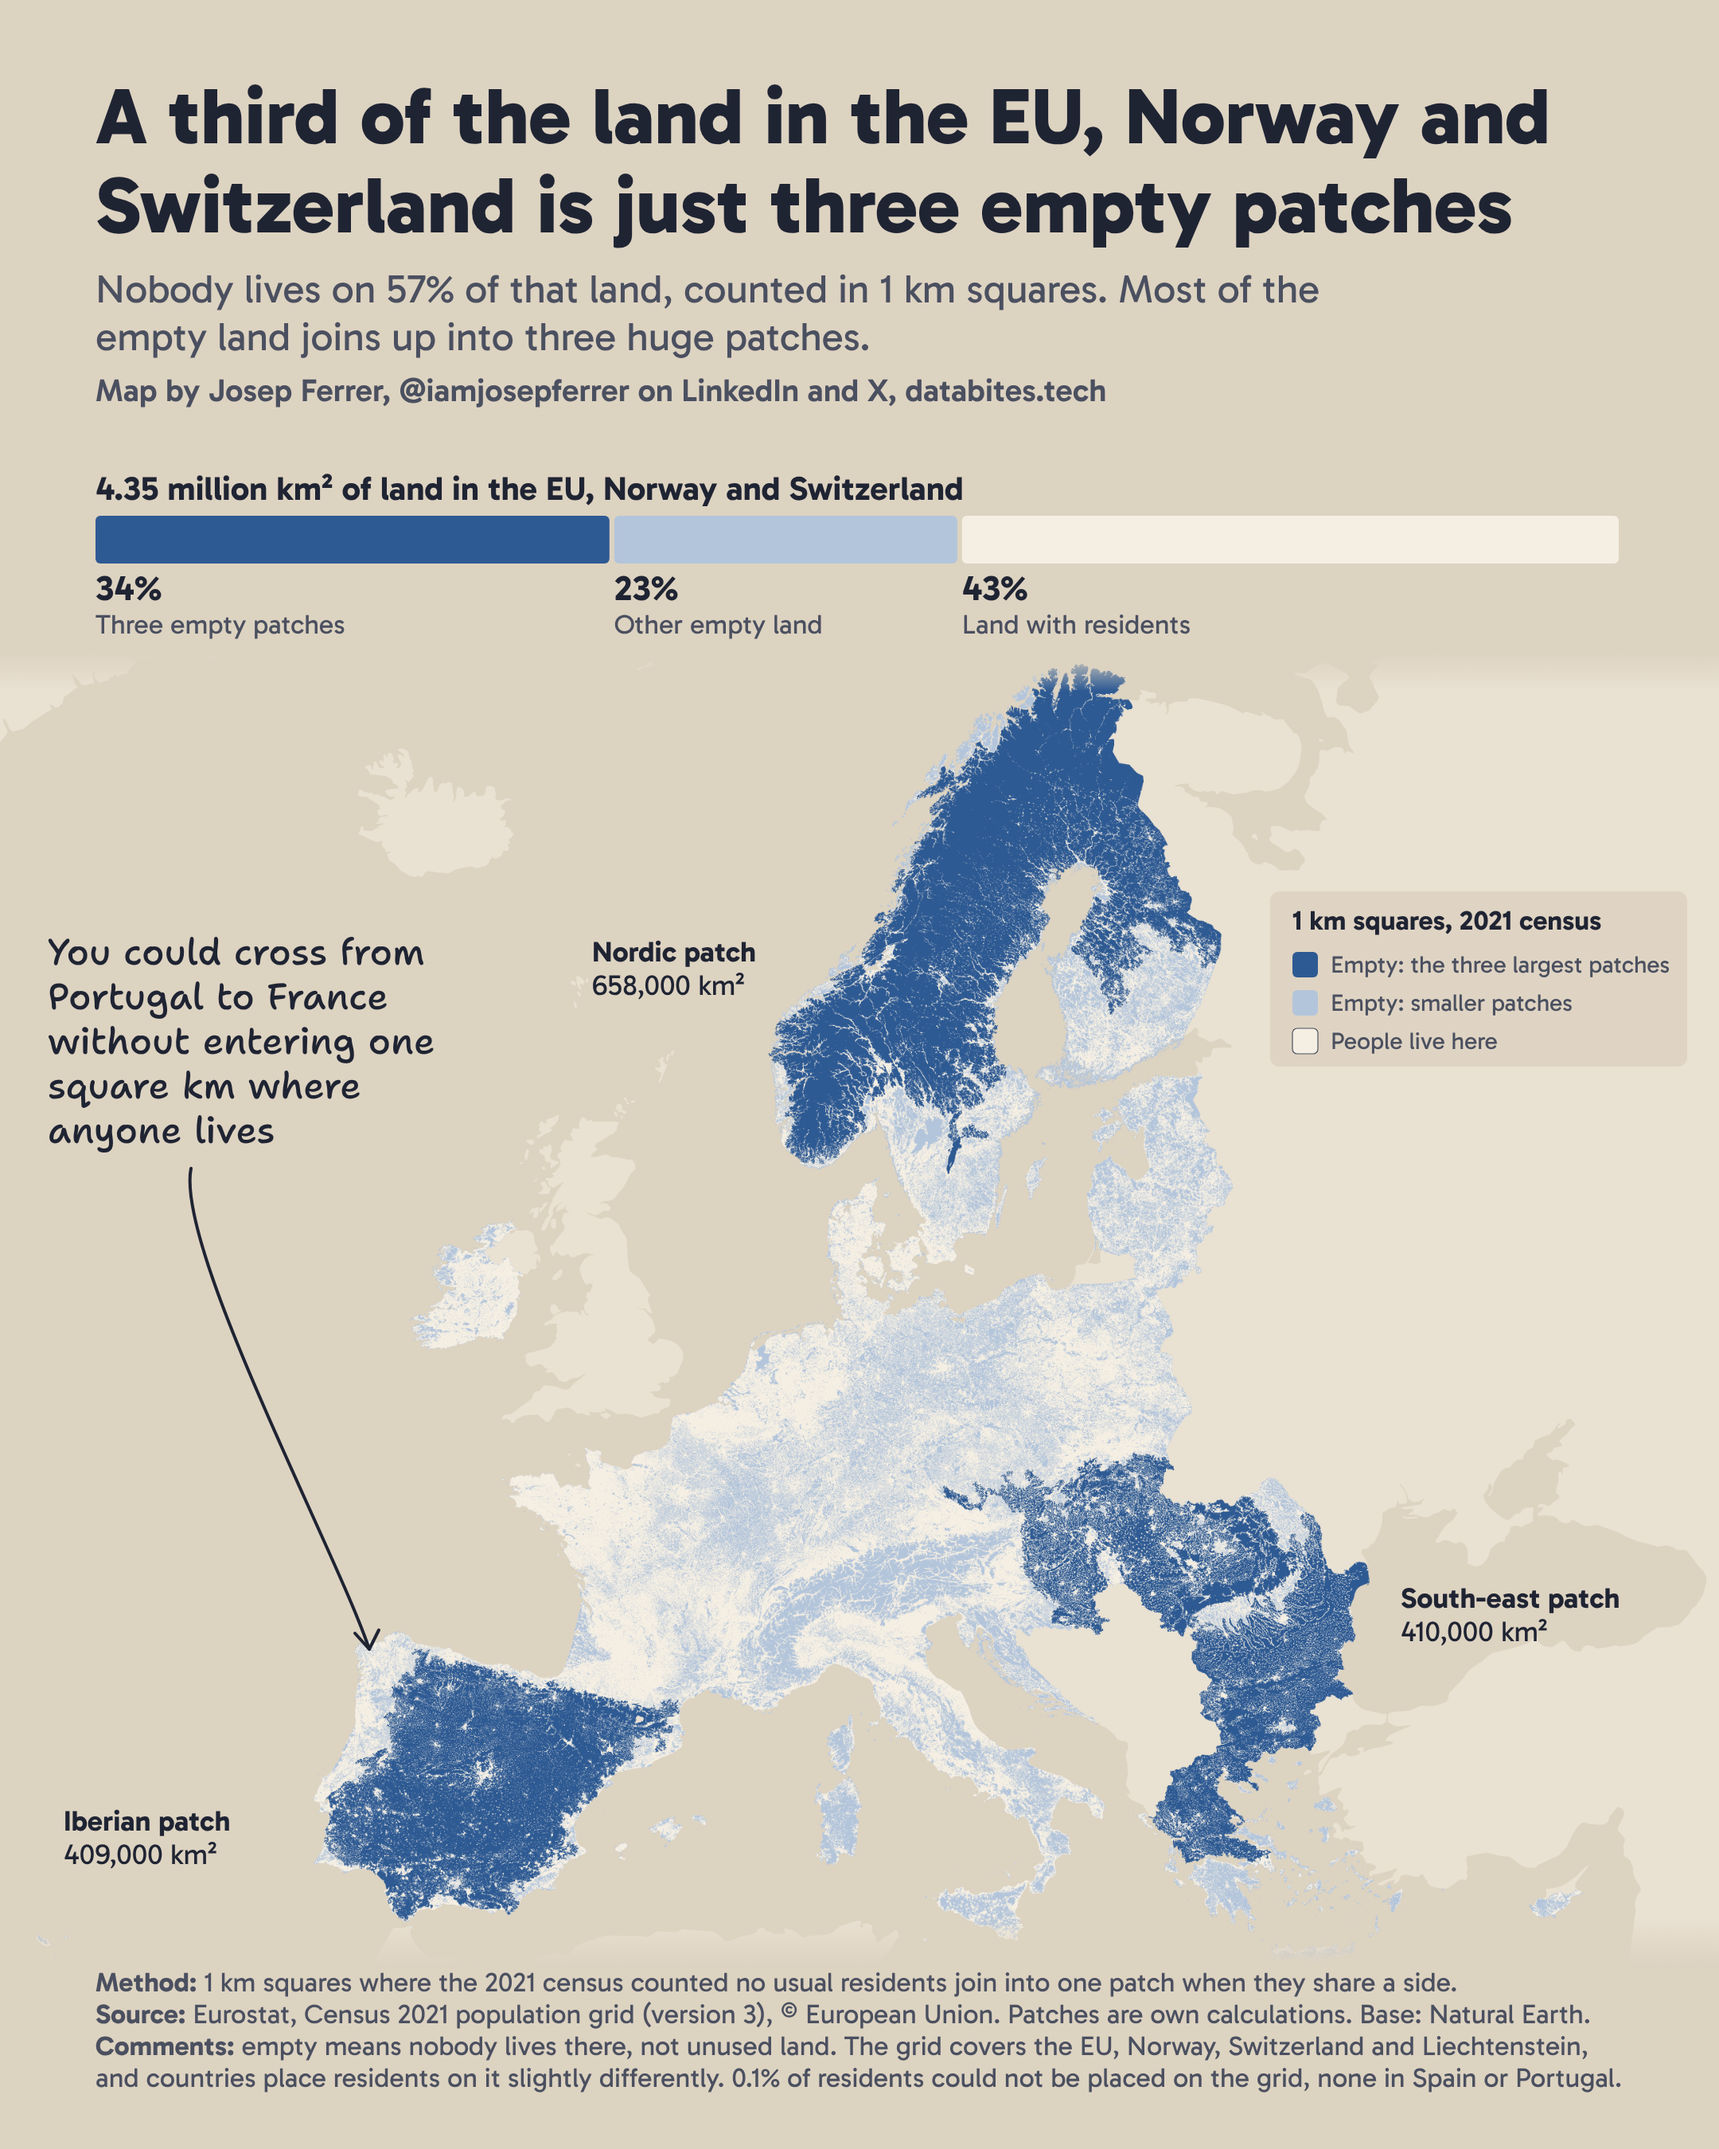
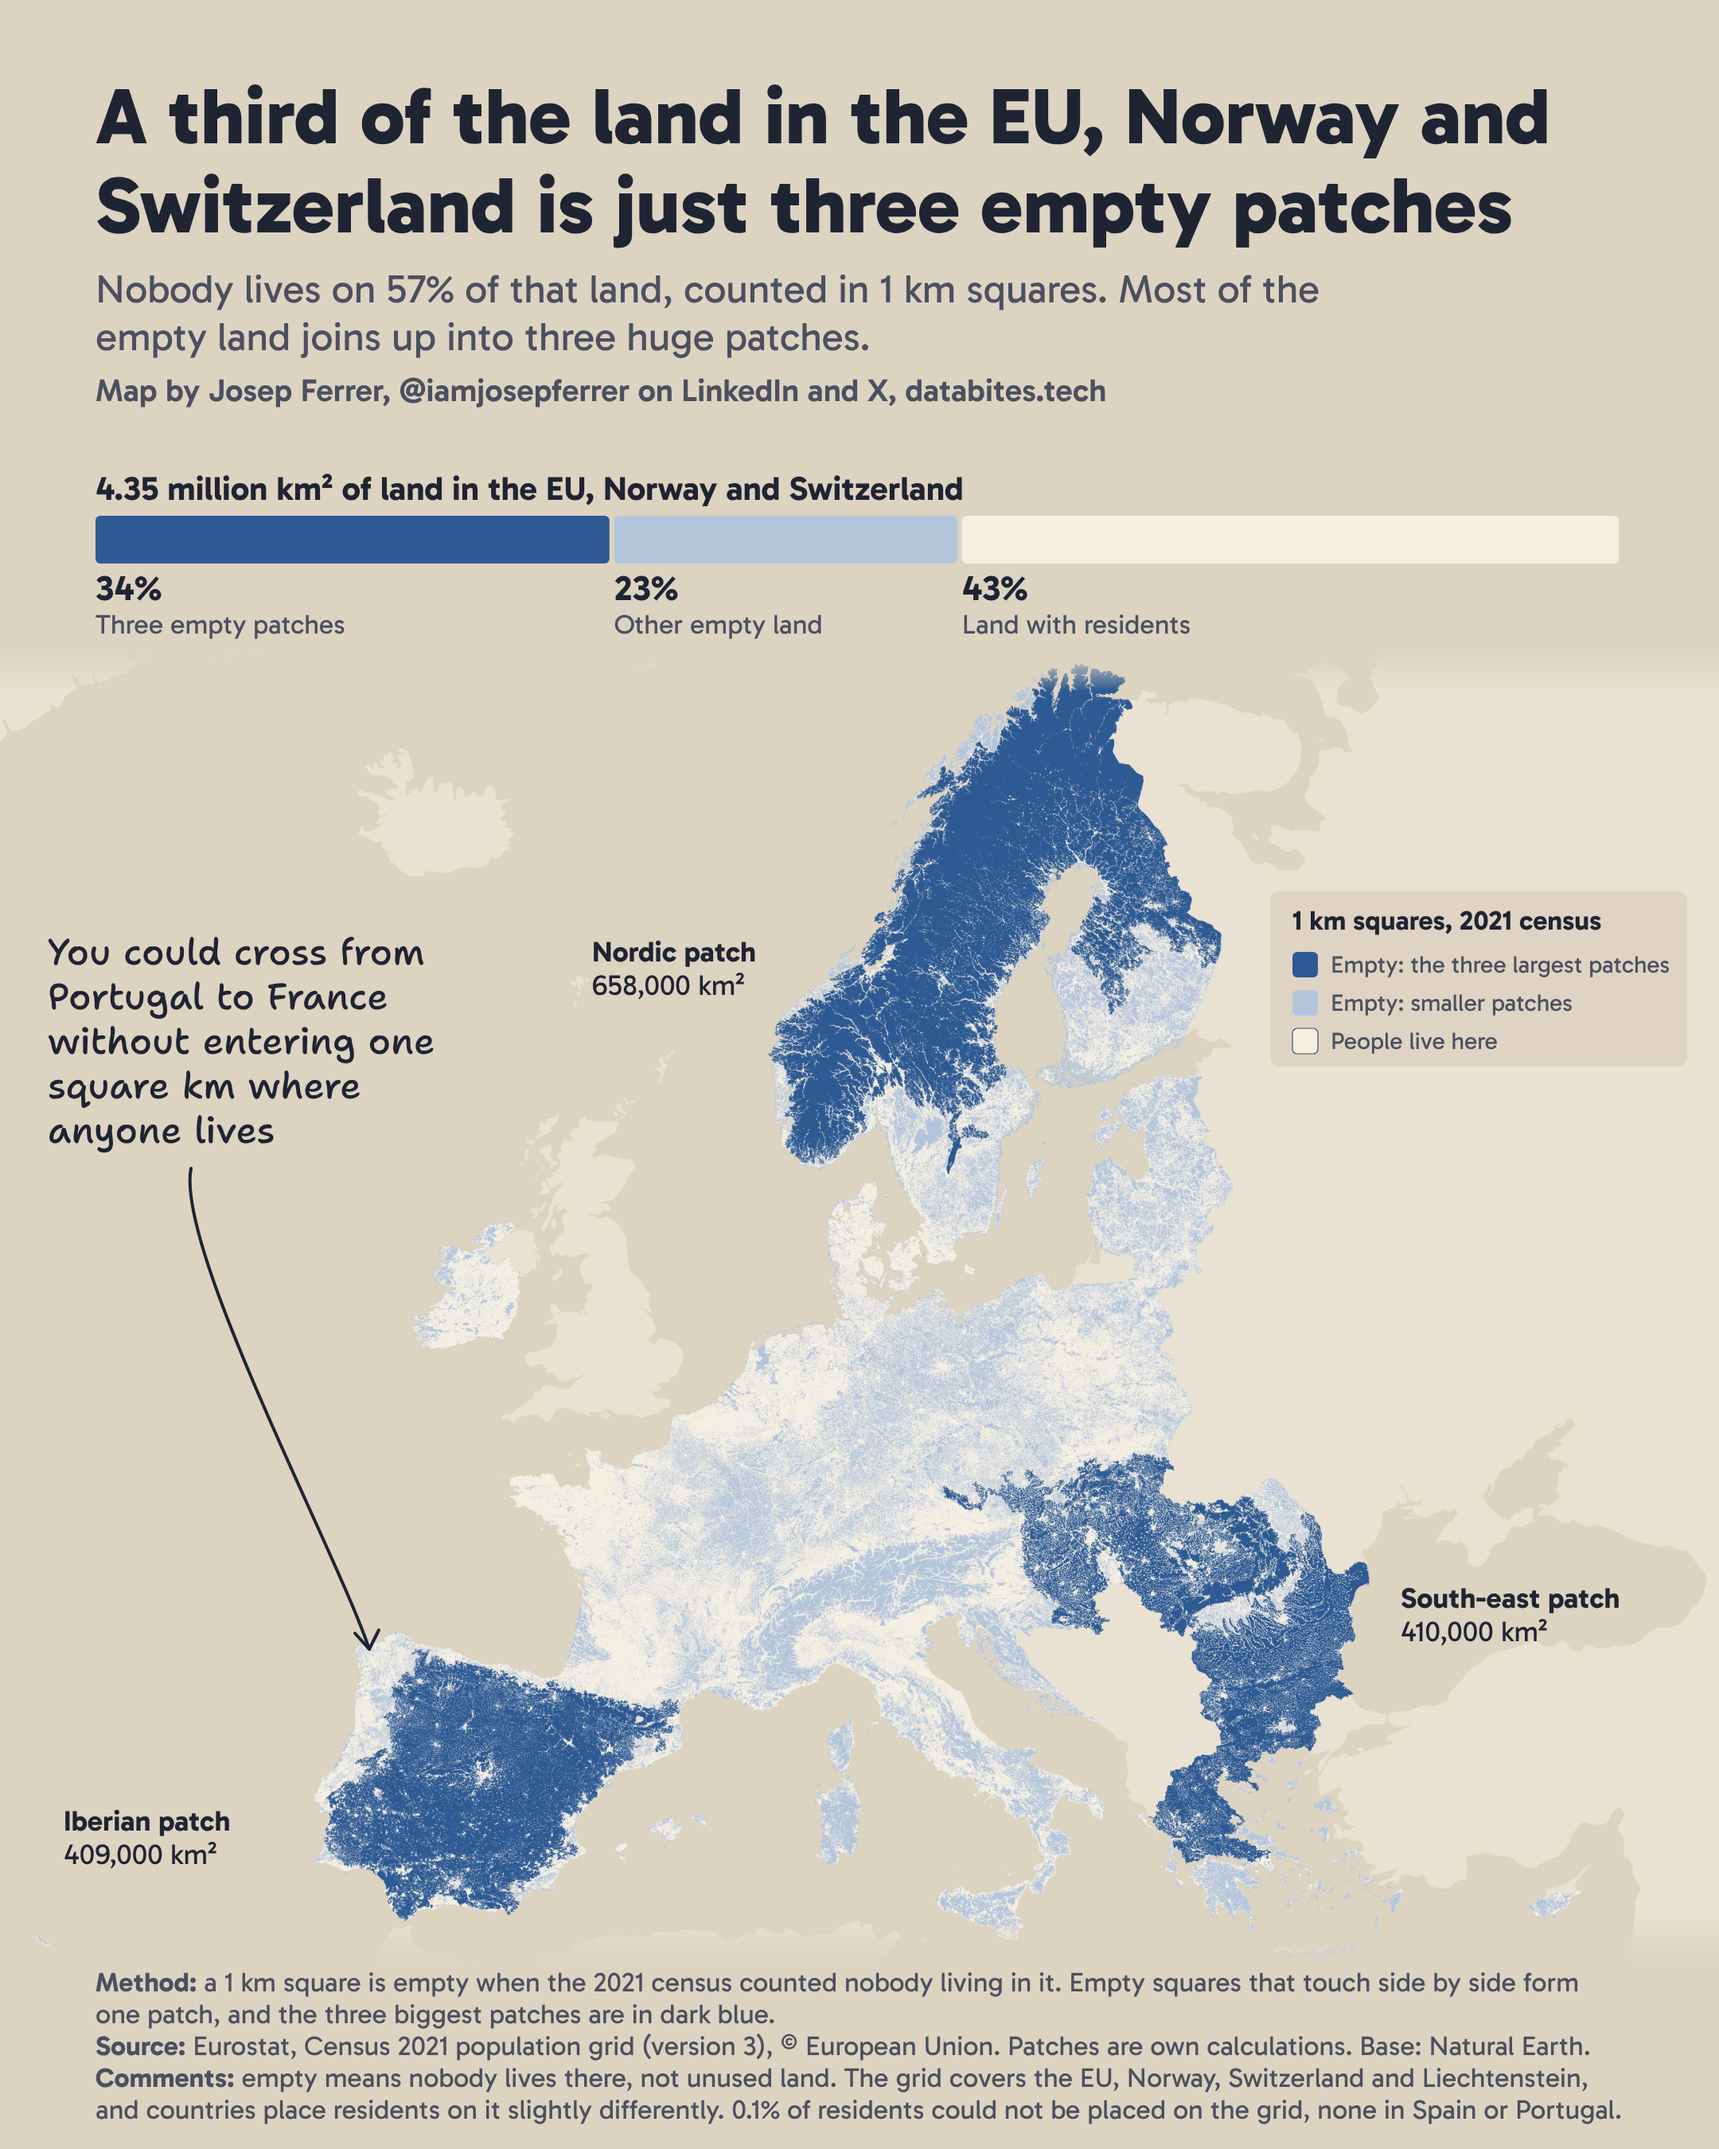
Day 4: clearer method line

Changed region(s): [[0.062, 0.9022, 0.9306, 0.9956]]

diff --git a/2026/day04_clusters/day04_clusters.py b/2026/day04_clusters/day04_clusters.py
@@ -170,7 +170,7 @@ svg.append(text(60, 190, f"Nobody lives on {empty_km2 / total_km2:.0%} of that l
 svg.append(text(60, 220, "empty land joins up into three huge patches.", 25, 400, C["ink2"]))
 svg.append(byline(252))
 FOOTER = [
-    ("Method:", "1 km squares where the 2021 census counted no usual residents join into one patch when they share a side."),
+    ("Method:", "a 1 km square is empty when the 2021 census counted nobody living in it. Empty squares that touch side by side form one patch, and the three biggest patches are in dark blue."),
     ("Source:", "Eurostat, Census 2021 population grid (version 3), ©\u00a0European Union. Patches are own calculations. Base: Natural Earth."),
     ("Comments:", "empty means nobody lives there, not unused land. The grid covers the EU, Norway, Switzerland and Liechtenstein, and countries place residents on it slightly differently. 0.1% of residents could not be placed on the grid, none in Spain or Portugal."),
 ]
